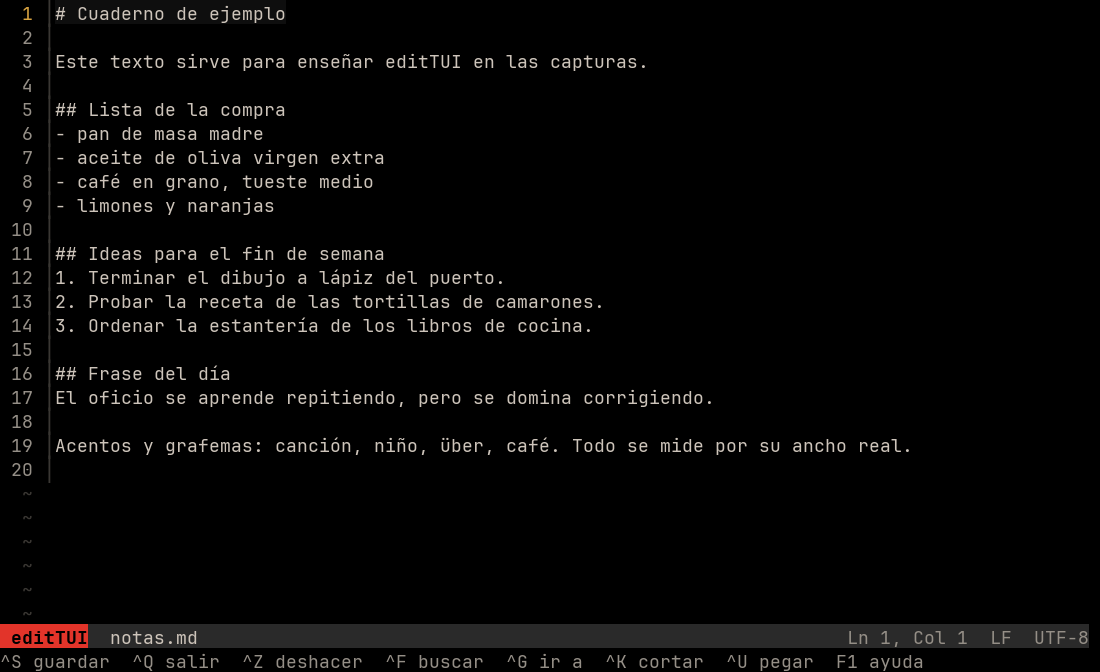
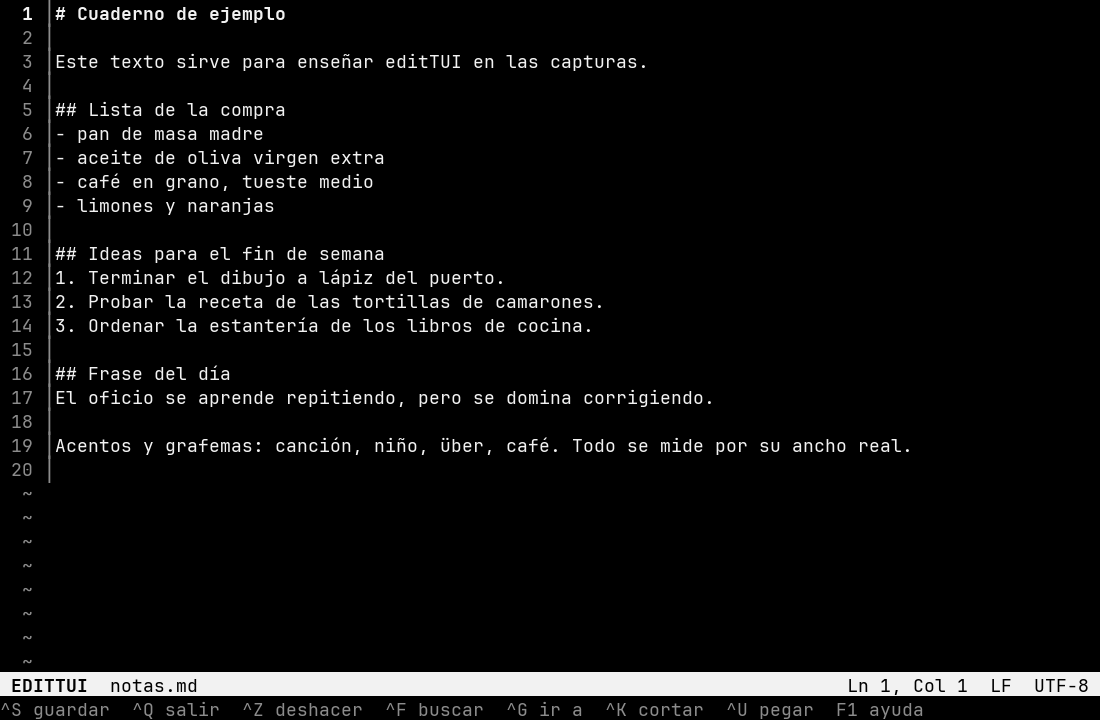
feat: estilo Takumi monocromo con colores por defecto y modificadores, capturas nuevas

diff --git a/src/ui.rs b/src/ui.rs
@@ -3,23 +3,17 @@
 
 use ratatui::Frame;
 use ratatui::layout::{Alignment, Constraint, Layout, Rect};
-use ratatui::style::{Color, Modifier, Style};
+use ratatui::style::{Modifier, Style};
 use ratatui::text::{Line, Span};
-use ratatui::widgets::{Block, Borders, Clear, Paragraph};
+use ratatui::widgets::{Block, BorderType, Borders, Clear, Paragraph};
 use unicode_segmentation::UnicodeSegmentation;
 
 use crate::editor::{Editor, Mode, PromptKind};
 use crate::text::cell_width;
 
-// Paper and ink, as in TUI-OS (docs/ in that repo list the tokens).
-const PAPER: Color = Color::Rgb(0x00, 0x00, 0x00);
-const INK: Color = Color::Rgb(0xcd, 0xc4, 0xba);
-const MUTED: Color = Color::Rgb(0x95, 0x8f, 0x87);
-const RAISED: Color = Color::Rgb(0x0e, 0x0e, 0x0e);
-const HIGH: Color = Color::Rgb(0x2a, 0x2a, 0x2a);
-const VERMILION: Color = Color::Rgb(0xe2, 0x34, 0x2a);
-const GOLD: Color = Color::Rgb(0xd9, 0xa4, 0x41);
-const LINE: Color = Color::Rgb(0x3a, 0x37, 0x33);
+// Takumi style (see takumi-design): strict monochrome. The Linux console has no
+// truecolor, so no RGB at all: the terminal's own default colours plus modifiers.
+// Selected / status bar / search hit = REVERSED, quiet text = DIM, emphasis = BOLD.
 
 const HELP: [(&str, &str); 14] = [
     ("Ctrl+S", "guardar"),
@@ -39,7 +33,19 @@ const HELP: [(&str, &str); 14] = [
 ];
 
 fn base() -> Style {
-    Style::new().fg(INK).bg(PAPER)
+    Style::new()
+}
+
+fn dim() -> Style {
+    Style::new().add_modifier(Modifier::DIM)
+}
+
+fn bold() -> Style {
+    Style::new().add_modifier(Modifier::BOLD)
+}
+
+fn inverse() -> Style {
+    Style::new().add_modifier(Modifier::REVERSED)
 }
 
 pub fn draw(f: &mut Frame, ed: &mut Editor) {
@@ -81,29 +87,18 @@ fn draw_text(f: &mut Frame, ed: &Editor, area: Rect, digits: usize, gutter: u16)
         let row = ed.top + i;
         let y = area.y + i as u16;
         if row >= ed.doc.line_count() {
-            buf.set_string(
-                area.x,
-                y,
-                format!("{:>digits$} ", "~"),
-                Style::new().fg(LINE).bg(PAPER),
-            );
+            buf.set_string(area.x, y, format!("{:>digits$} ", "~"), dim());
             continue;
         }
         let current = row == ed.cursor.row;
-        let bg = if current { RAISED } else { PAPER };
-        let num_style = Style::new()
-            .fg(if current { GOLD } else { MUTED })
-            .bg(PAPER);
+        // Current line: bold text and number; the rest of the numbers are dim.
+        let line_style = if current { bold() } else { base() };
+        let num_style = if current { bold() } else { dim() };
         buf.set_string(area.x, y, format!("{:>digits$} ", row + 1), num_style);
-        buf.set_string(
-            area.x + digits as u16 + 1,
-            y,
-            "│",
-            Style::new().fg(LINE).bg(PAPER),
-        );
+        buf.set_string(area.x + digits as u16 + 1, y, "│", dim());
         // Paint the line background, then the visible graphemes over it.
         let x0 = area.x + gutter;
-        buf.set_string(x0, y, " ".repeat(body_w), Style::new().bg(bg));
+        buf.set_string(x0, y, " ".repeat(body_w), line_style);
         let line = ed.doc.line(row);
         let mut dc = 0usize;
         for (byte, g) in line.grapheme_indices(true) {
@@ -120,9 +115,9 @@ fn draw_text(f: &mut Frame, ed: &Editor, area: Rect, digits: usize, gutter: u16)
                 .highlight
                 .is_some_and(|(r, s, e)| r == row && byte >= s && byte < e);
             let style = if hit {
-                Style::new().fg(PAPER).bg(GOLD)
+                line_style.add_modifier(Modifier::REVERSED)
             } else {
-                Style::new().fg(INK).bg(bg)
+                line_style
             };
             let shown = if g == "\t" {
                 " ".repeat(w)
@@ -150,27 +145,21 @@ fn draw_status(f: &mut Frame, ed: &Editor, area: Rect) {
         ed.cursor_display_col() + 1,
         if ed.doc.is_crlf() { "CRLF" } else { "LF" }
     );
-    let style = Style::new().fg(INK).bg(HIGH);
+    let style = inverse();
     let w = area.width as usize;
-    let left = format!(" editTUI  {name}{dirty}");
+    let left = format!(" EDITTUI  {name}{dirty}");
     let pad = w.saturating_sub(left.chars().count() + pos.chars().count());
     let line = Line::from(vec![
-        Span::styled(
-            " editTUI",
-            Style::new()
-                .fg(PAPER)
-                .bg(VERMILION)
-                .add_modifier(Modifier::BOLD),
-        ),
+        Span::styled(" EDITTUI", inverse().add_modifier(Modifier::BOLD)),
         Span::styled(format!("  {name}{dirty}"), style),
         Span::styled(" ".repeat(pad), style),
-        Span::styled(pos, Style::new().fg(MUTED).bg(HIGH)),
+        Span::styled(pos, style),
     ]);
     f.render_widget(Paragraph::new(line).style(style), area);
 }
 
 fn draw_hint(f: &mut Frame, ed: &Editor, area: Rect) {
-    let style = Style::new().fg(MUTED).bg(PAPER);
+    let style = dim();
     let line = match &ed.mode {
         Mode::Prompt { kind, input } => {
             let label = match kind {
@@ -179,17 +168,17 @@ fn draw_hint(f: &mut Frame, ed: &Editor, area: Rect) {
                 PromptKind::SaveAs => "Guardar como: ",
             };
             Line::from(vec![
-                Span::styled(label, Style::new().fg(GOLD).bg(PAPER)),
-                Span::styled(input.clone(), Style::new().fg(INK).bg(PAPER)),
+                Span::styled(label, bold()),
+                Span::styled(input.clone(), Style::new()),
                 Span::styled("   Enter aceptar · Esc cancelar", style),
             ])
         }
         Mode::ConfirmQuit => Line::from(Span::styled(
-            "Hay cambios sin guardar: (s) guardar y salir · (n) salir sin guardar · Esc seguir",
-            Style::new().fg(VERMILION).bg(PAPER),
+            " ! Hay cambios sin guardar: (s) guardar y salir · (n) salir sin guardar · Esc seguir ",
+            inverse().add_modifier(Modifier::BOLD),
         )),
         _ => match &ed.message {
-            Some(m) => Line::from(Span::styled(m.clone(), Style::new().fg(GOLD).bg(PAPER))),
+            Some(m) => Line::from(Span::styled(m.clone(), bold())),
             None => Line::from(Span::styled(
                 "^S guardar  ^Q salir  ^Z deshacer  ^F buscar  ^G ir a  ^K cortar  ^U pegar  F1 ayuda",
                 style,
@@ -213,20 +202,22 @@ fn draw_help(f: &mut Frame, area: Rect) {
         .iter()
         .map(|(k, d)| {
             Line::from(vec![
-                Span::styled(format!(" {k:<24}"), Style::new().fg(GOLD).bg(PAPER)),
-                Span::styled(*d, Style::new().fg(INK).bg(PAPER)),
+                Span::styled(format!(" {k:<24}"), bold()),
+                Span::styled(*d, Style::new()),
             ])
         })
         .collect();
     lines.push(Line::from(""));
     lines.push(Line::from(Span::styled(
         " Cualquier tecla cierra la ayuda",
-        Style::new().fg(MUTED).bg(PAPER),
+        dim(),
     )));
     let block = Block::new()
         .borders(Borders::ALL)
-        .border_style(Style::new().fg(LINE))
-        .title(" AYUDA // editTUI ")
+        .border_type(BorderType::Plain)
+        .border_style(dim())
+        .title_style(bold())
+        .title(" AYUDA // EDITTUI ")
         .title_alignment(Alignment::Left)
         .style(base());
     f.render_widget(Paragraph::new(lines).block(block), r);
@@ -305,6 +296,19 @@ mod tests {
         assert!(ed.left > 0);
         assert!(s[0].starts_with("  1 │xxx"));
         assert!(s[4].contains("Col 101"));
+    }
+
+    #[test]
+    fn uses_only_default_colours_so_it_works_on_the_linux_console() {
+        use ratatui::style::Color;
+        let mut ed = editor_with("hola\nmundo\n");
+        ed.highlight = Some((0, 0, 2));
+        let mut t = Terminal::new(TestBackend::new(60, 8)).unwrap();
+        t.draw(|f| draw(f, &mut ed)).unwrap();
+        for cell in t.backend().buffer().content() {
+            assert_eq!(cell.fg, Color::Reset);
+            assert_eq!(cell.bg, Color::Reset);
+        }
     }
 
     #[test]

diff --git a/README.md b/README.md
@@ -9,7 +9,7 @@ TUI-OS, el sistema operativo de texto de la organización (se instala en `/usr/l
 
 ![Ayuda con todas las teclas](docs/03-ayuda.png)
 
-*Capturas reales de la aplicación (100 columnas, kitty/tmux) editando un texto de ejemplo.*
+*Capturas reales de la aplicación (100 columnas, tmux) editando un texto de ejemplo, con el estilo Takumi.*
 
 ```sh
 cargo run --release -- archivo.txt     # o sin argumentos: documento nuevo
@@ -36,6 +36,10 @@ se borra con su letra), muestra caracteres anchos (CJK) con su ancho real y cons
 de línea del archivo (LF o CRLF) y su último salto de línea. Guarda de forma atómica
 (archivo temporal y renombrado) y conserva los permisos.
 
+## Diseño
+
+Estilo [Takumi](https://github.com/Takumi-Organization/takumi-design): monocromo estricto, sin color de acento. Como la consola de Linux no tiene truecolor, no usa RGB: solo los colores por defecto del terminal y modificadores. Barra de estado y coincidencias de búsqueda en vídeo inverso, números de línea y ayuda secundaria en tenue (DIM), línea actual y avisos en negrita; los avisos llevan texto (`!`), nunca solo color.
+
 ## Límites (a propósito, de momento)
 
 - Sin selección con Shift ni portapapeles del sistema: la consola de Linux no distingue
@@ -57,8 +61,8 @@ cargo fmt --check && cargo clippy --all-targets -- -D warnings && cargo test
 
 ## Estado
 
-Versión 0.1. En esta revisión se comprobó: `cargo fmt --check`, `cargo clippy -D warnings` y 28 pruebas en verde, y el uso real en un emulador de terminal (capturas de arriba).
-No se ha vuelto a probar en la consola de Linux (TTY) en esta revisión.
+Versión 0.1. En esta revisión se comprobó: `cargo fmt --check`, `cargo clippy -D warnings` y 29 pruebas en verde (una comprueba que no se dibuja ningún color fuera de los por defecto), y el uso real en tmux (capturas de arriba, renderizadas con un script propio que aplica inversión, tenue y negrita).
+No se ha probado en la consola de Linux (TTY) real ni en otros terminales distintos de tmux.
 
 ## Licencia
 
